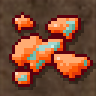
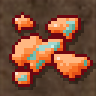
Ресурсы-металлы: доводка — торф-волокна, железо ржаво-оранжевое, значки железа и алюминия, тест tests/test_ores_metals.py
Claude-Session: https://claude.ai/code/session_0136gV4z446Ram1BD5cWLTAs

diff --git a/tools/ores_metals.py b/tools/ores_metals.py
@@ -338,7 +338,7 @@ class Pic:
 
 # ══ материалы ═══════════════════════════════════════════════════════════════
 
-R_SILVER = ramp(262, 4, [52, 74, 85, 92, 96, 98, 100, 100], dh_dark=-10, dh_light=10, spec=(255, 255, 255))
+R_SILVER = ramp(262, 5, [46, 66, 79, 90, 95, 98, 100, 100], dh_dark=-10, dh_light=10, spec=(255, 255, 255))
 R_ALU = ramp(268, 18, [41, 57, 67, 75, 81, 86, 90, 95], dh_dark=-6, dh_light=0)
 R_PLAT = ramp(332, 42, [52, 66, 76, 84, 90, 94, 97, 100], dh_dark=-14, dh_light=6, spec=(255, 255, 255))
 R_MERC = ramp(208, 28, [14, 27, 38, 48, 56, 66, 82, 100], dh_dark=-10, dh_light=6, spec=(255, 255, 255))
@@ -349,7 +349,7 @@ R_NICK = ramp(126, 34, [24, 38, 49, 57, 64, 72, 82, 93], dh_dark=-6, dh_light=14
 
 def _chrome(cx, cy):
     """Полосы отражения: светлая над серединой куска, тёмная под ней (диагональ x+y)."""
-    return ((cx + cy - 4.5, 1.6, 0.30), (cx + cy + 3.5, 1.6, -0.30))
+    return ((cx + cy - 4.5, 1.6, 0.30), (cx + cy + 3.0, 2.0, -0.55))
 
 
 def _speck(p, mask, rp, seed, n, tone):
@@ -436,7 +436,7 @@ def _shard(p, cx, cy, length, width, rot, rp, skew=0.34):
 
 def silver_tile():
     p = Pic()
-    k = dict(lo=-2.3, hi=1.3)
+    k = dict(lo=-2.0, hi=1.3)
     p.dome(blob(20.5, 8.8, 3.5, 2.9, 0.3, 0.14, 11), R_SILVER, streaks=_chrome(20.5, 8.8), **k)
     p.dome(blob(13.0, 17.5, 6.8, 5.6, -0.35, 0.15, 12), R_SILVER, streaks=_chrome(13, 17.5), **k)
     p.dome(blob(22.8, 21.0, 4.4, 3.7, 0.2, 0.14, 13), R_SILVER, streaks=_chrome(22.8, 21), **k)
@@ -558,15 +558,15 @@ def nickel_tile():
     return p.sprite()
 
 
-R_IRON = ramp(36, 50, [16, 25, 35, 43, 50, 57, 65, 76], dh_dark=-14, dh_light=22)
-R_COPPER = ramp(52, 96, [17, 29, 41, 51, 59, 67, 77, 89], dh_dark=-24, dh_light=12)
+R_IRON = ramp(48, 46, [16, 25, 35, 44, 52, 59, 67, 77], dh_dark=-16, dh_light=16)
+R_COPPER = ramp(55, 84, [22, 33, 44, 54, 62, 70, 80, 92], dh_dark=-24, dh_light=12)
 R_PATINA = ramp(172, 30, [20, 34, 46, 56, 64, 72, 82, 92], dh_dark=-10, dh_light=14)
 R_GOLD = ramp(90, 98, [32, 46, 58, 67, 74, 81, 88, 95], dh_dark=-34, dh_light=4, c_dark=0.75, c_light=0.95)
 R_SCRAP = ramp(92, 8, [18, 30, 40, 48, 55, 62, 70, 80], dh_dark=-6, dh_light=6)
 R_RUST = ramp(52, 42, [14, 24, 33, 41, 48, 55, 63, 72], dh_dark=-14, dh_light=14)
-R_PEAT = ramp(62, 60, [4, 9, 15, 22, 29, 37, 47, 60], dh_dark=-10, dh_light=14, c_dark=0.95, c_light=0.8)
-R_FIBER = ramp(72, 28, [14, 26, 38, 48, 56, 64, 72, 80], dh_dark=-10, dh_light=10)
-R_MOSS = ramp(118, 70, [12, 22, 32, 40, 48, 56, 66, 78], dh_dark=-8, dh_light=22)
+R_PEAT = ramp(66, 58, [10, 19, 30, 41, 51, 59, 68, 80], dh_dark=-10, dh_light=14, c_dark=0.95, c_light=0.75)
+R_FIBER = ramp(70, 34, [16, 28, 40, 50, 58, 66, 74, 84], dh_dark=-8, dh_light=10)
+R_MOSS = ramp(124, 80, [10, 18, 28, 37, 46, 55, 66, 78], dh_dark=-6, dh_light=20, c_dark=0.9, c_light=0.85)
 R_COAL = [lch(1.5, 4, 105), lch(2.5, 5, 108), lch(4, 8, 118), lch(6.5, 8, 118), lch(9, 5, 255), lch(20, 6, 250),
           lch(46, 8, 245), lch(74, 8, 240)]
 R_URAN = ramp(126, 92, [26, 44, 58, 69, 79, 87, 94, 99], dh_dark=22, dh_light=-8, c_dark=0.9, c_light=0.8)
@@ -744,19 +744,11 @@ def _fibers(p, mask, n, seed, rp, length=7, out=False):
 
 
 def peat_tile():
+    """Торф: комья спрессованных волокон: светлые и тёмные нити, пятна мха, торчащие корешки."""
     p = Pic()
-    clods = [(19.5, 8.5, 4.8, 3.8, 0.3, 111), (11.0, 16.0, 7.8, 6.4, -0.25, 112), (23.0, 21.5, 5.8, 4.8, 0.2, 113),
-             (6.5, 26.5, 3.6, 2.8, 0.0, 114)]
-    for cx, cy, rx, ry, rot, sd in clods:
-        m = blob(cx, cy, rx, ry, rot, 0.20, sd, 6, 2.2)
-        n = vnoise(sd + 7, 2.6) + (vnoise(sd + 9, 1.4) - 0.5) * 0.3
-        moss = erode(m) & (n > 0.62) & (_YY < cy + 2)
-        p.dome(m, R_PEAT, spec=False, lo=-0.5, hi=1.5, alt=(moss, R_MOSS), rim=R_PEAT[7],
-               tex=(vnoise(sd + 13, 2.0) - 0.5) * 0.25)
-        area = int(m.sum())
-        _strands(p, m, area // 11, sd + 21, R_PEAT[1], 8)
-        _strands(p, m, area // 9, sd + 25, R_PEAT[7], 6)
-        _fibers(p, m, 3 + int(rx / 2), sd + 31, R_PEAT, out=True)
+    for cx, cy, rx, ry, rot, sd in ((19.5, 8.5, 4.8, 3.8, 0.3, 111), (11.0, 16.0, 7.8, 6.4, -0.25, 112),
+                                    (23.0, 21.5, 5.8, 4.8, 0.2, 113), (6.5, 26.5, 3.6, 2.8, 0.0, 114)):
+        _peat_clod(p, cx, cy, rx, ry, rot, sd)
     return p.sprite()
 
 
@@ -938,21 +930,21 @@ def _diag_strata(x0, x1, step=4.0, w=1.0):
 
 
 def iron_icon():
+    """Значок железа — те же слоистые жилы, что на тайле, только крупнее."""
     p = Pic()
     glint = lch(72, 7, 250)
-    st = _diag_strata(14, 54, 4.2)
-    tx = (vnoise(201, 2.0) - 0.5) * 0.25
-    big = blob(15.0, 16.5, 11.5, 9.5, -0.3, 0.10, 202, 4, 2.3)
-    p.dome(big, R_IRON, streaks=st, lo=-1.0, hi=1.3, spec=False, tex=tx)
-    small = blob(25.0, 24.5, 5.2, 4.2, 0.3, 0.12, 203, 4, 2.3)
-    p.dome(small, R_IRON, streaks=_diag_strata(30, 58, 3.6), lo=-1.0, hi=1.3, spec=False)
-    rng = np.random.default_rng(9)
-    for m in (big, small):
-        ys, xs = np.nonzero(erode(m) & (np.roll(m, 2, 0)))
-        for k in rng.choice(len(ys), 9, replace=False):
+    glint2 = lch(58, 8, 252)
+    rng = np.random.default_rng(15)
+    for p0, p1, th, sd in (((2.5, 21.0), (15.5, 6.5), 6.4, 71), ((6.5, 29.0), (28.5, 8.0), 7.6, 72), ((18.0, 30.0), (30.0, 17.0), 5.2, 73)):
+        m, v = _vein(p, p0, p1, th, R_IRON, sd)
+        inner = erode(m)
+        ys, xs = np.nonzero(inner & (v > 0.6))
+        for k in rng.choice(len(ys), min(6, len(ys)), replace=False):
+            p.px(xs[k], ys[k], glint)
+            p.px(xs[k] + 1, ys[k] - 1, glint2)
+        ys, xs = np.nonzero(inner & (v < 0.5))
+        for k in rng.choice(len(ys), min(12, len(ys)), replace=False):
             p.px(xs[k], ys[k], R_RUST[6] if rng.random() < 0.5 else R_IRON[1])
-    for (x, y) in ((8, 9), (9, 8), (15, 6)):
-        p.px_in(big, x, y, glint)
     return p.sprite(shadow=False)
 
 
@@ -969,7 +961,7 @@ def lead_icon():
 
 def silver_icon():
     p = Pic()
-    k = dict(lo=-2.3, hi=1.3)
+    k = dict(lo=-2.0, hi=1.3)
     p.dome(blob(22.5, 10.5, 4.6, 3.8, 0.3, 0.12, 221), R_SILVER, streaks=_chrome(22.5, 10.5), **k)
     p.dome(blob(14.0, 18.5, 10.0, 8.2, -0.3, 0.12, 222), R_SILVER, streaks=_chrome(14, 18.5), **k)
     p.dome(blob(25.5, 24.5, 5.0, 4.0, 0.2, 0.12, 223), R_SILVER, streaks=_chrome(25.5, 24.5), **k)
@@ -991,9 +983,10 @@ def copper_icon():
 
 def aluminium_icon():
     p = Pic()
-    _plate(p, 16.0, 21.5, 11.5, -0.1, R_ALU, 3, squash=0.62, crease=((8, 23), (20, 18)))
-    _plate(p, 16.5, 16.0, 9.5, 0.12, R_ALU, 3, squash=0.62, crease=((12, 17), (22, 13)))
-    _plate(p, 16.0, 10.5, 7.0, -0.08, R_ALU, 2, squash=0.62)
+    _plate(p, 20.5, 13.5, 8.0, 0.25, R_ALU, 3, squash=0.66, crease=((16, 14), (24, 10)))
+    _plate(p, 13.0, 20.0, 10.5, -0.15, R_ALU, 3, squash=0.66, crease=((7, 22), (18, 17)))
+    _plate(p, 21.5, 24.5, 6.0, 0.35, R_ALU, 2, squash=0.66)
+    _plate(p, 9.5, 9.5, 4.8, -0.4, R_ALU, 2, squash=0.66)
     return p.sprite(shadow=False)
 
 
@@ -1069,17 +1062,9 @@ def scrap_icon():
 
 def peat_icon():
     p = Pic()
-    clods = [(20.0, 9.5, 5.4, 4.2, 0.3, 291), (14.0, 18.5, 10.6, 8.2, -0.2, 292), (25.5, 24.0, 5.0, 4.0, 0.2, 293)]
-    for cx, cy, rx, ry, rot, sd in clods:
-        m = blob(cx, cy, rx, ry, rot, 0.18, sd, 6, 2.2)
-        n = vnoise(sd + 7, 2.6) + (vnoise(sd + 9, 1.4) - 0.5) * 0.3
-        moss = erode(m) & (n > 0.62) & (_YY < cy + 2)
-        p.dome(m, R_PEAT, spec=False, lo=-0.5, hi=1.5, alt=(moss, R_MOSS), rim=R_PEAT[7],
-               tex=(vnoise(sd + 13, 2.0) - 0.5) * 0.25)
-        area = int(m.sum())
-        _strands(p, m, area // 11, sd + 21, R_PEAT[1], 8)
-        _strands(p, m, area // 9, sd + 25, R_PEAT[7], 6)
-        _fibers(p, m, 3 + int(rx / 2), sd + 31, R_PEAT, out=True)
+    for cx, cy, rx, ry, rot, sd in ((20.0, 9.5, 5.4, 4.2, 0.3, 291), (14.0, 18.5, 10.6, 8.2, -0.2, 292),
+                                    (25.5, 24.0, 5.0, 4.0, 0.2, 293)):
+        _peat_clod(p, cx, cy, rx, ry, rot, sd)
     return p.sprite(shadow=False)
 
 
@@ -1218,6 +1203,19 @@ def fuel_block_coal_icon():
     fr = _block(p, 4, 6, 18, 15, 6, rp, fx)
     _flame(p, 13, 25, 11)
     return p.sprite(shadow=False)
+
+
+def _peat_clod(p, cx, cy, rx, ry, rot, sd, moss_thr=0.68):
+    m = blob(cx, cy, rx, ry, rot, 0.26, sd, 8, 2.2)
+    n = vnoise(sd + 7, 2.6) + (vnoise(sd + 9, 1.4) - 0.5) * 0.3
+    moss = erode(m) & (n > moss_thr) & (_YY < cy + 2)
+    p.dome(m, R_PEAT, spec=False, lo=-0.75, hi=1.4, alt=(moss, R_MOSS), rim=R_PEAT[7],
+           tex=(vnoise(sd + 13, 2.0) - 0.5) * 0.3)
+    area = int(m.sum())
+    _strands(p, m, area // 10, sd + 21, R_PEAT[1], 9, curl=0.5)
+    _strands(p, m, area // 14, sd + 25, R_PEAT[7], 7, curl=0.5)
+    _fibers(p, m, 4 + int(rx / 1.5), sd + 31, R_PEAT, out=True)
+    return m
 
 
 TILES = {

diff --git a/tests/test_ores_metals.py b/tests/test_ores_metals.py
@@ -1,0 +1,81 @@
+#!/usr/bin/env python3
+"""Тест спрайтов металлов и топлива (tools/ores_metals.py), без Godot.
+
+  python3 tests/test_ores_metals.py
+
+Проверяет: каждый спрайт 32x32 и непустой, с контуром (непрозрачные пиксели граничат с пустыми), занимает разумную
+долю клетки; для всех своих ресурсов есть значок; среди СВОИХ ресурсов нет похожих пар и невидимых на грунте
+(check_ores.py целиком учитывает ещё и ресурсы второй ветки — они здесь не участвуют).
+"""
+
+import os
+import sys
+
+import numpy as np
+
+ROOT = os.path.dirname(os.path.dirname(os.path.abspath(__file__)))
+sys.path.insert(0, os.path.join(ROOT, "tools"))
+
+import check_ores as co  # noqa: E402
+import ores_metals as om  # noqa: E402
+
+TILE_NAMES = ["ore_iron", "ore_lead", "ore_silver", "ore_copper", "ore_aluminium", "ore_nickel", "ore_platinum",
+              "ore_titanium", "ore_lithium", "ore_mercury", "ore_gold", "ore_scrap", "ore_peat", "ore_coal", "ore_uranium"]
+ICON_IDS = ["iron_ore", "lead", "silver", "copper", "aluminium", "nickel", "platinum", "titanium", "lithium", "mercury",
+            "gold", "scrap", "peat", "coal", "uranium", "bronze", "fuel_block", "fuel_block_coal"]
+
+checks = 0
+fails = 0
+
+
+def check(name, ok):
+    global checks, fails
+    checks += 1
+    if not ok:
+        fails += 1
+        print("ПРОВАЛ:", name)
+
+
+def has_outline(alpha):
+    solid = alpha > 127
+    pad = np.pad(solid, 1)
+    border = solid & ~(pad[:-2, 1:-1] & pad[2:, 1:-1] & pad[1:-1, :-2] & pad[1:-1, 2:])
+    return border.sum() >= 12
+
+
+for n in TILE_NAMES:
+    check(f"тайл {n} зарегистрирован", n in om.TILES)
+    if n not in om.TILES:
+        continue
+    img = om.TILES[n]().img
+    a = np.array(img)[..., 3]
+    check(f"{n}: 32x32", img.size == (32, 32))
+    share = (a > 127).mean()
+    check(f"{n}: заполняет 15..60% клетки ({share:.2f})", 0.15 <= share <= 0.60)
+    check(f"{n}: есть контур", has_outline(a))
+    check(f"{n}: углы клетки свободны (грунт виден)", (a[:2, :2] > 127).sum() == 0 and (a[-2:, -2:] > 127).sum() == 0)
+
+for i in ICON_IDS:
+    check(f"значок {i} зарегистрирован или есть тайл", i in om.ICONS or ("ore_" + i) in om.TILES)
+    if i not in om.ICONS:
+        continue
+    img = om.ICONS[i]().icon()
+    a = np.array(img)[..., 3]
+    check(f"значок {i}: 32x32", img.size == (32, 32))
+    share = (a > 127).mean()
+    check(f"значок {i}: заполняет 20..80% ({share:.2f})", 0.20 <= share <= 0.80)
+    check(f"значок {i}: есть контур", has_outline(a))
+
+data, soils = co.collect()
+mine = [n for n in TILE_NAMES if n in data]
+check("все свои тайлы видны сборщику check_ores", len(mine) == len(TILE_NAMES))
+for k, a in enumerate(mine):
+    check(f"{a}: перерисован спрайтом", data[a]["src"] == "спрайт")
+    check(f"{a}: виден на грунте всех поясов (ΔE {co.contrast(data[a], soils):.1f} >= {co.MIN_CONTRAST})",
+          co.contrast(data[a], soils) >= co.MIN_CONTRAST)
+    for b in mine[k + 1:]:
+        de, shape, _ = co.pair_metrics(data[a], data[b])
+        check(f"{a} / {b} не слишком похожи (ΔE {de:.1f}, форма {shape:.2f})", not co.too_similar(de, shape))
+
+print(f"=== Итог: {checks} проверок, {fails} провалов ===")
+sys.exit(0 if fails == 0 else 1)
